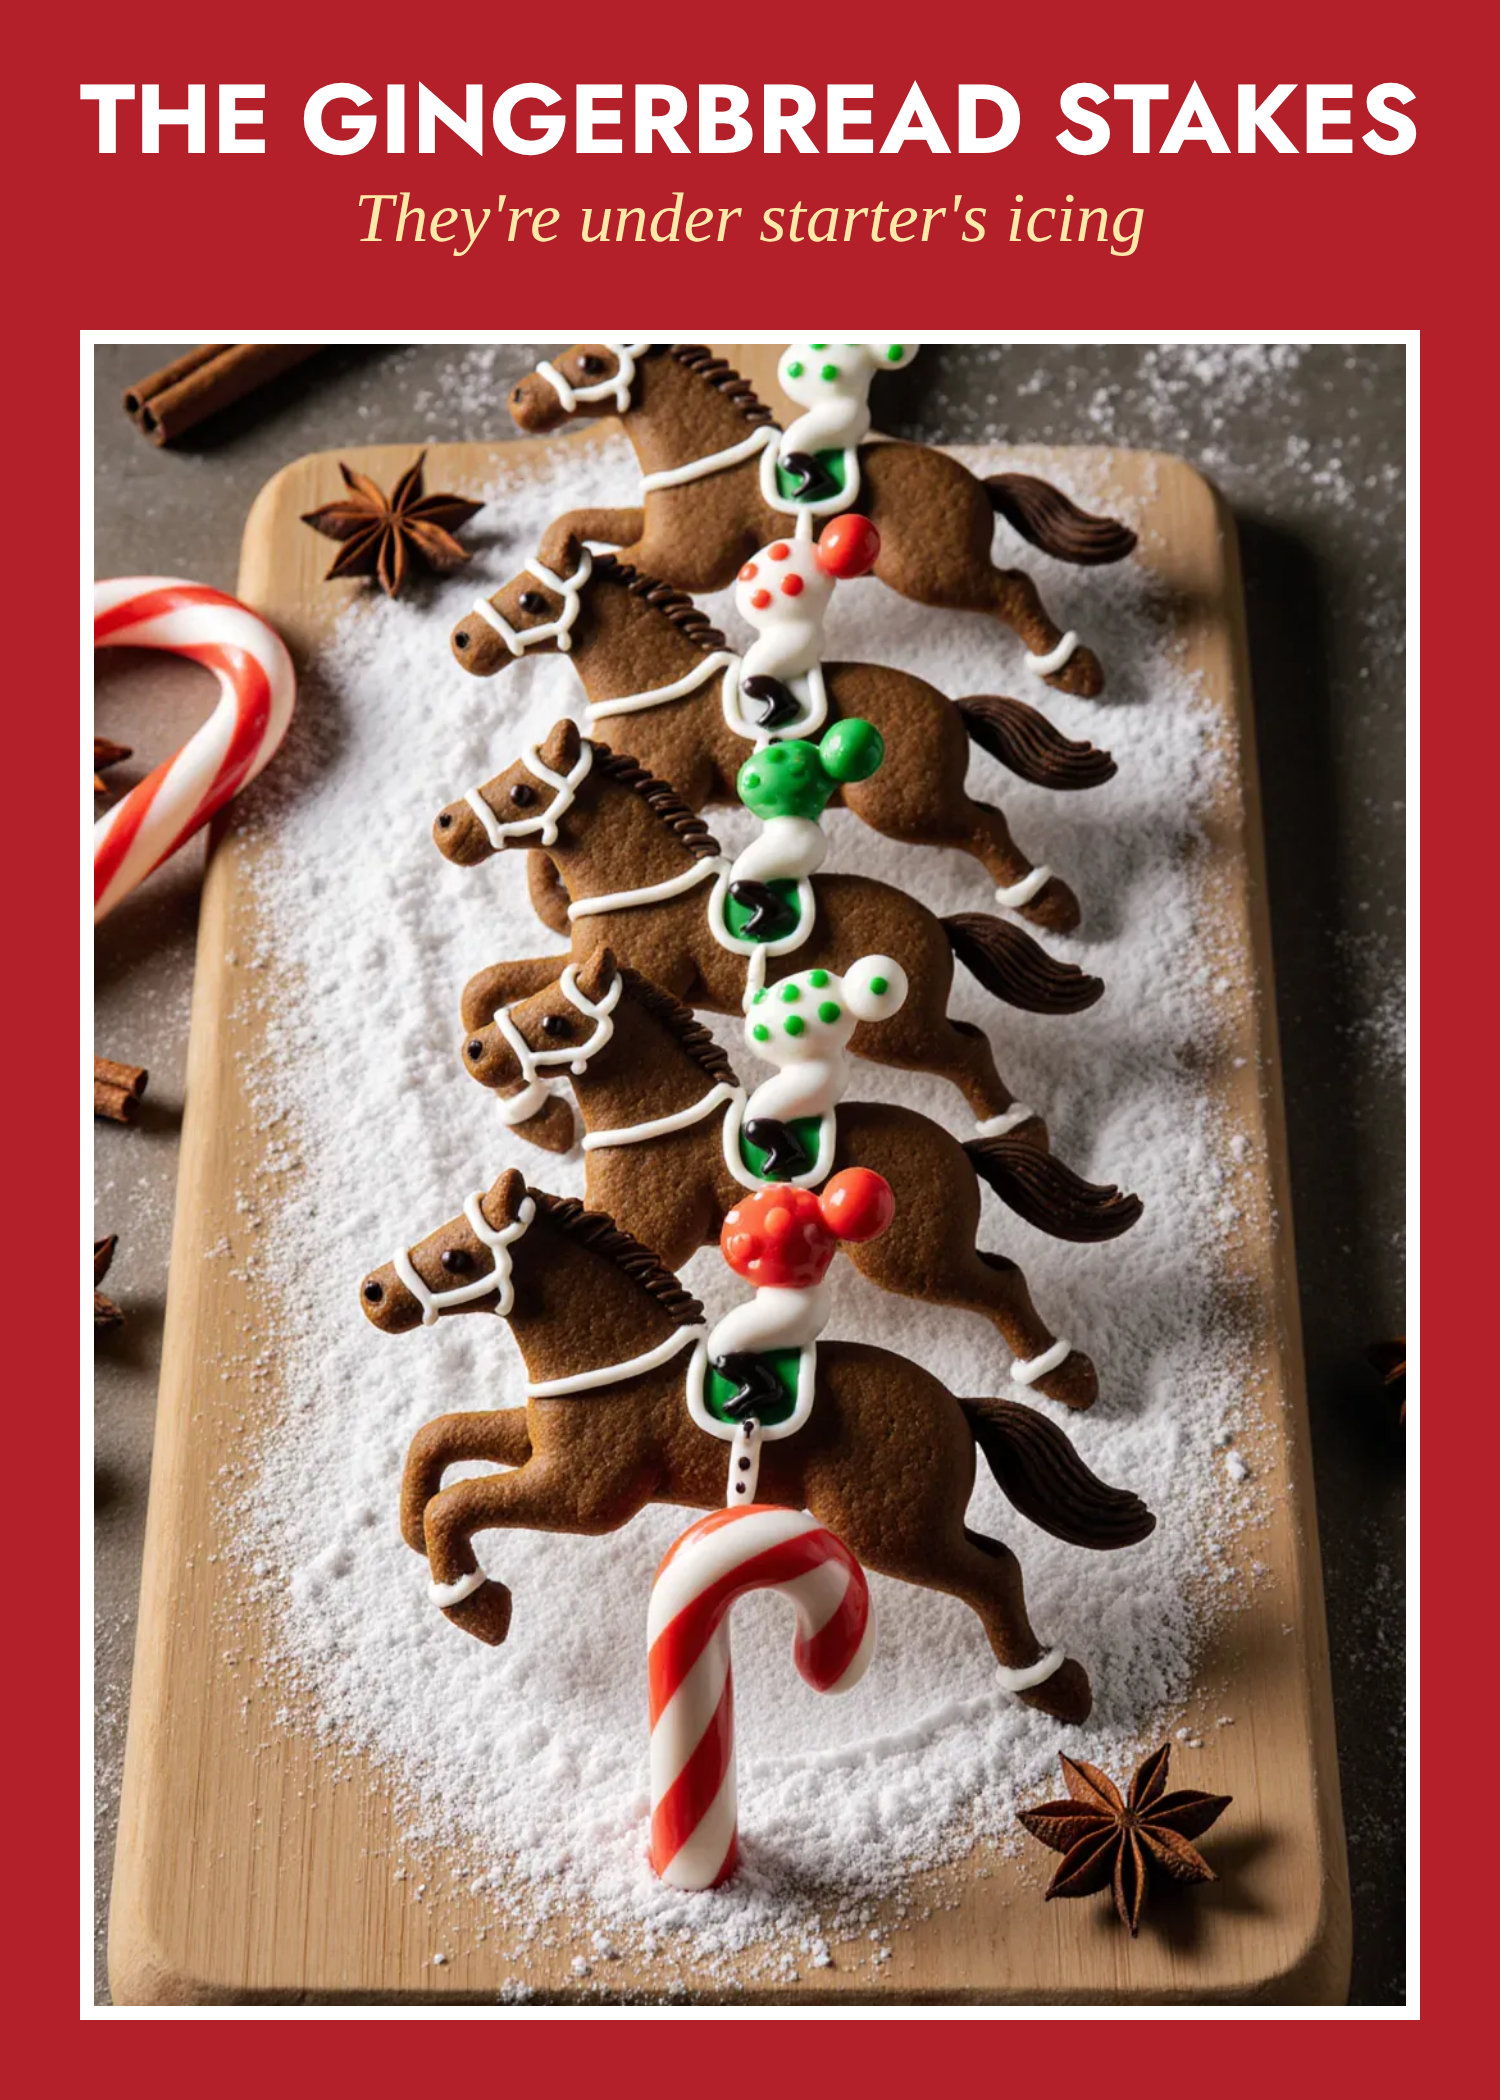
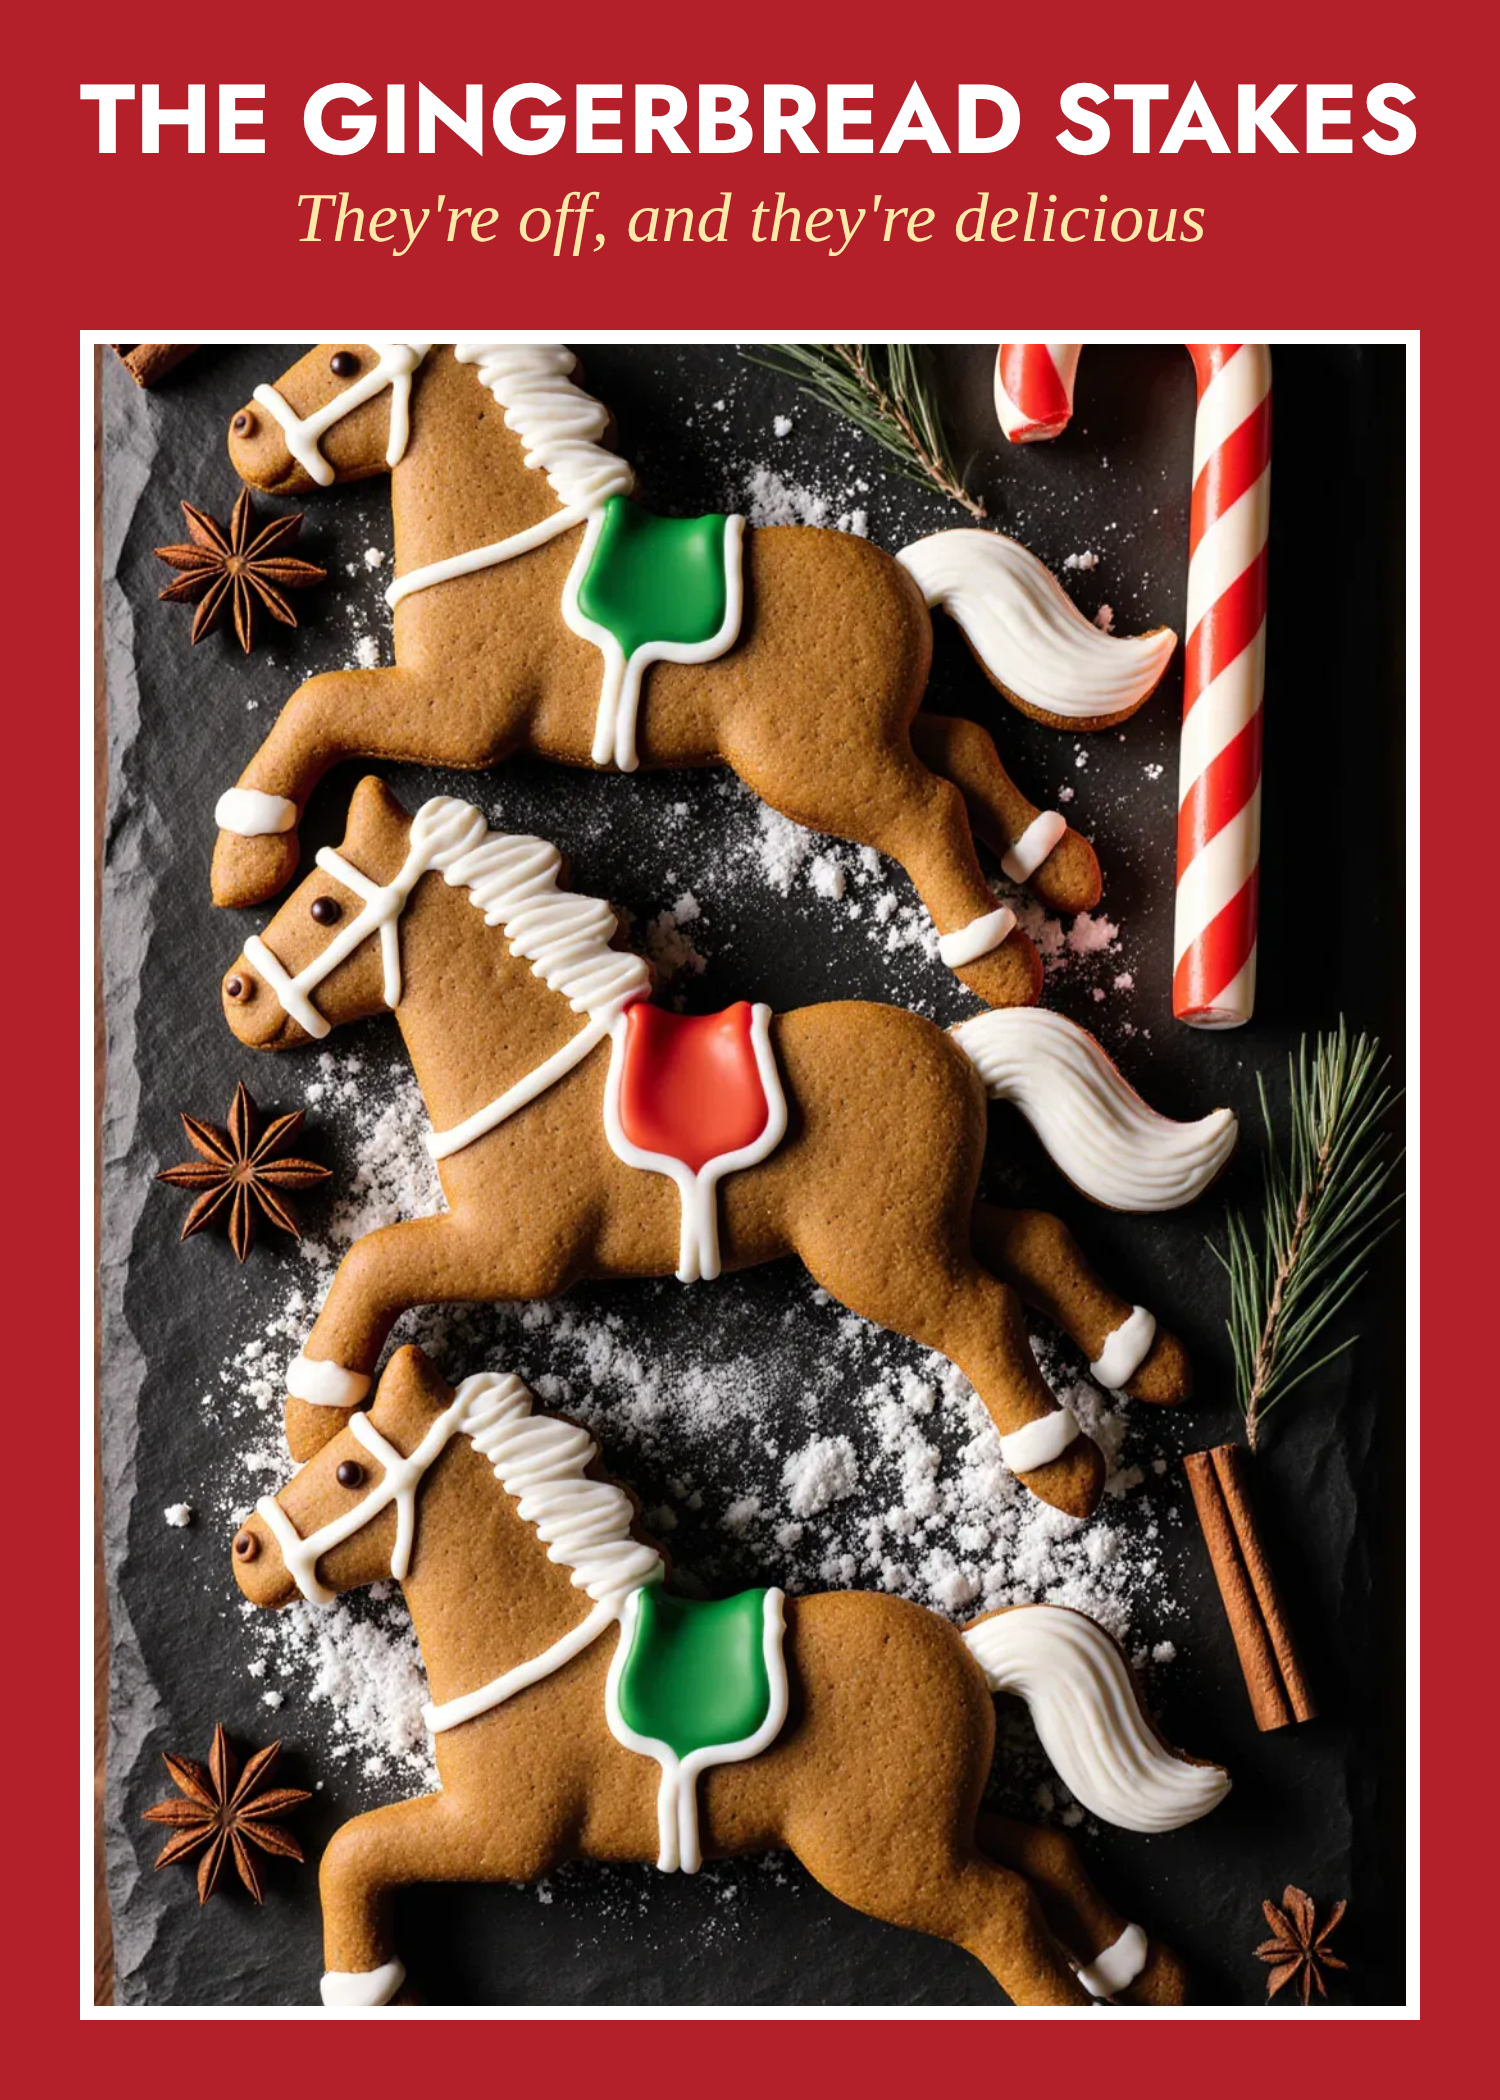
Christmas cards: fixes after review (cards 1, 5, 7, 12, 15)
Claude-Session: https://claude.ai/code/session_012o9aG5DgvmXWZHsMc4KE4d

diff --git a/batch/2026-11-24/christmas-cards/cards.js b/batch/2026-11-24/christmas-cards/cards.js
@@ -6,7 +6,7 @@ const metal = 'linear-gradient(90deg,#8a6a22,#f2cf5b 18%,#fff3c8 32%,#c9a13b 50%
 const base = `${font('Jost', 600, 'jost-600.woff2')}${font('Jost', 700, 'jost-700.woff2')}*{box-sizing:border-box;margin:0}body{width:1500px;height:2100px;position:relative;overflow:hidden;font-family:'Jost'}
 .bg{position:absolute;inset:0;background-size:cover;background-position:center}.serif{font-family:'Liberation Serif','FreeSerif',serif}`;
 const cards = {
-'1-flying-finish': `<div class="bg" style="background-image:url(${img('finish.webp')})"></div>
+'1-flying-finish': `<div class="bg" style="background-image:url(${img('finish2.png')})"></div>
 <div style="position:absolute;left:0;right:0;bottom:0;height:900px;background:linear-gradient(transparent,rgba(10,30,20,.88) 55%)"></div>
 <div style="position:absolute;left:90px;right:90px;bottom:120px;color:#fff;text-align:center">
 <div class="serif" style="font-style:italic;font-size:210px;line-height:.95">Merry Christmas</div>
@@ -32,7 +32,7 @@ const cards = {
 <div style="position:absolute;left:0;right:0;bottom:0;height:520px;background:linear-gradient(transparent,rgba(0,0,0,.75))"></div>
 <div style="position:absolute;left:0;right:0;bottom:120px;text-align:center;color:#fff">
 <div class="serif" style="font-style:italic;font-size:130px">Rudolph, by a nose.</div>
-<div style="font-weight:600;letter-spacing:14px;font-size:48px;color:#FF5A5A;margin-top:18px">MERRY CHRISTMAS</div></div>`,
+<div style="font-weight:600;letter-spacing:14px;font-size:52px;color:#F2CF5B;margin-top:18px">MERRY CHRISTMAS</div></div>`,
 '6-stewards-enquiry': `<div style="position:absolute;inset:0;background:#F3EDE5"></div>
 <div style="position:absolute;left:0;right:0;top:0;height:26px;background:${metal}"></div><div style="position:absolute;left:0;right:0;bottom:0;height:26px;background:${metal}"></div>
 <div style="position:absolute;left:110px;right:110px;top:150px;bottom:150px;border:8px solid #1C1C1C;padding:70px 50px;text-align:center;color:#1C1C1C">
@@ -73,7 +73,7 @@ ${shade('bottom', 380, .7)}<div style="position:absolute;left:0;right:0;bottom:9
 '12-gingerbread-stakes': `<div style="position:absolute;inset:0;background:#B3202A"></div>
 <div style="position:absolute;left:80px;right:80px;top:330px;bottom:80px;background-image:url(${img('gingerbread.webp')});background-size:cover;background-position:center;border:14px solid #fff"></div>
 <div style="position:absolute;left:0;right:0;top:70px;text-align:center;color:#fff"><div style="font-weight:700;font-size:98px;line-height:1;white-space:nowrap">THE GINGERBREAD STAKES</div>
-<div class="serif" style="font-style:italic;font-size:70px;margin-top:10px;color:#FFE9A8">They're under starter's icing</div></div>`,
+<div class="serif" style="font-style:italic;font-size:70px;margin-top:10px;color:#FFE9A8">They're off, and they're delicious</div></div>`,
 '13-lucky-horseshoe': `${full('horseshoe.webp')}${shade('top', 420, .75)}
 <div style="position:absolute;left:0;right:0;top:80px;text-align:center;color:#F2CF5B"><div style="font-weight:700;font-size:128px;letter-spacing:6px;line-height:1">GOOD LUCK</div></div>
 ${shade('bottom', 460, .8)}<div style="position:absolute;left:0;right:0;bottom:100px;text-align:center;color:#fff"><div class="serif" style="font-style:italic;font-size:118px">and a Merry Christmas</div></div>`,

diff --git a/batch/2026-11-24/christmas-cards/REVIEW-REQUEST-christmas-cards.md b/batch/2026-11-24/christmas-cards/REVIEW-REQUEST-christmas-cards.md
@@ -53,3 +53,11 @@ Cards 8 to 20 added, same folder and naming; the contact sheet now shows all 20 
 | 20 | going-report | Type only: "Going: Merry (mulled in places)" |
 
 Extra weak points: card 12's icing jockeys are blobs (it reads as home baking, but judge it); card 16 shows grooms' faces very small; card 14's saddlecloth carries a FLUX-drawn "1"; card 17's sprig is pine, so the wording avoids "mistletoe"; card 13 says "Good luck", which is a greeting, not a betting claim. A morning-gallops picture with visible riders' faces was binned and replaced by the silhouette version.
+
+## Fixes after ADVICE 20c7697 (23 Nov, 20:35 UTC)
+- [x] 1. Card 1: new picture, two horses nose to nose at the finish in the snow with the crowd behind; no rider or silks in shot at all, so no face and no real colours. (Two tries at a three-horse finish still showed lower faces and were binned.)
+- [x] 1. Card 7: new picture with the rider's face fully hidden behind the horse's head; the three example silks re-applied by script.
+- [x] 2. Card 5: "MERRY CHRISTMAS" now gold and larger.
+- [x] 3. Card 15: new stockings picture, no stray figure (green with gold stars, red with a white hoop, purple with yellow diamonds).
+- [x] 4. Card 12: new gingerbread picture, clean piped horses with no riders; line changed to "They're off, and they're delicious".
+- [ ] 5. Card 4 rival silks: NOT checked. I cannot open the colours register or racecards from this session (network block), and the picture has seven sets of FLUX-drawn colours. Options: the reviewer checks them, or I replace the picture with a no-silks Boxing Day scene. Say which.
